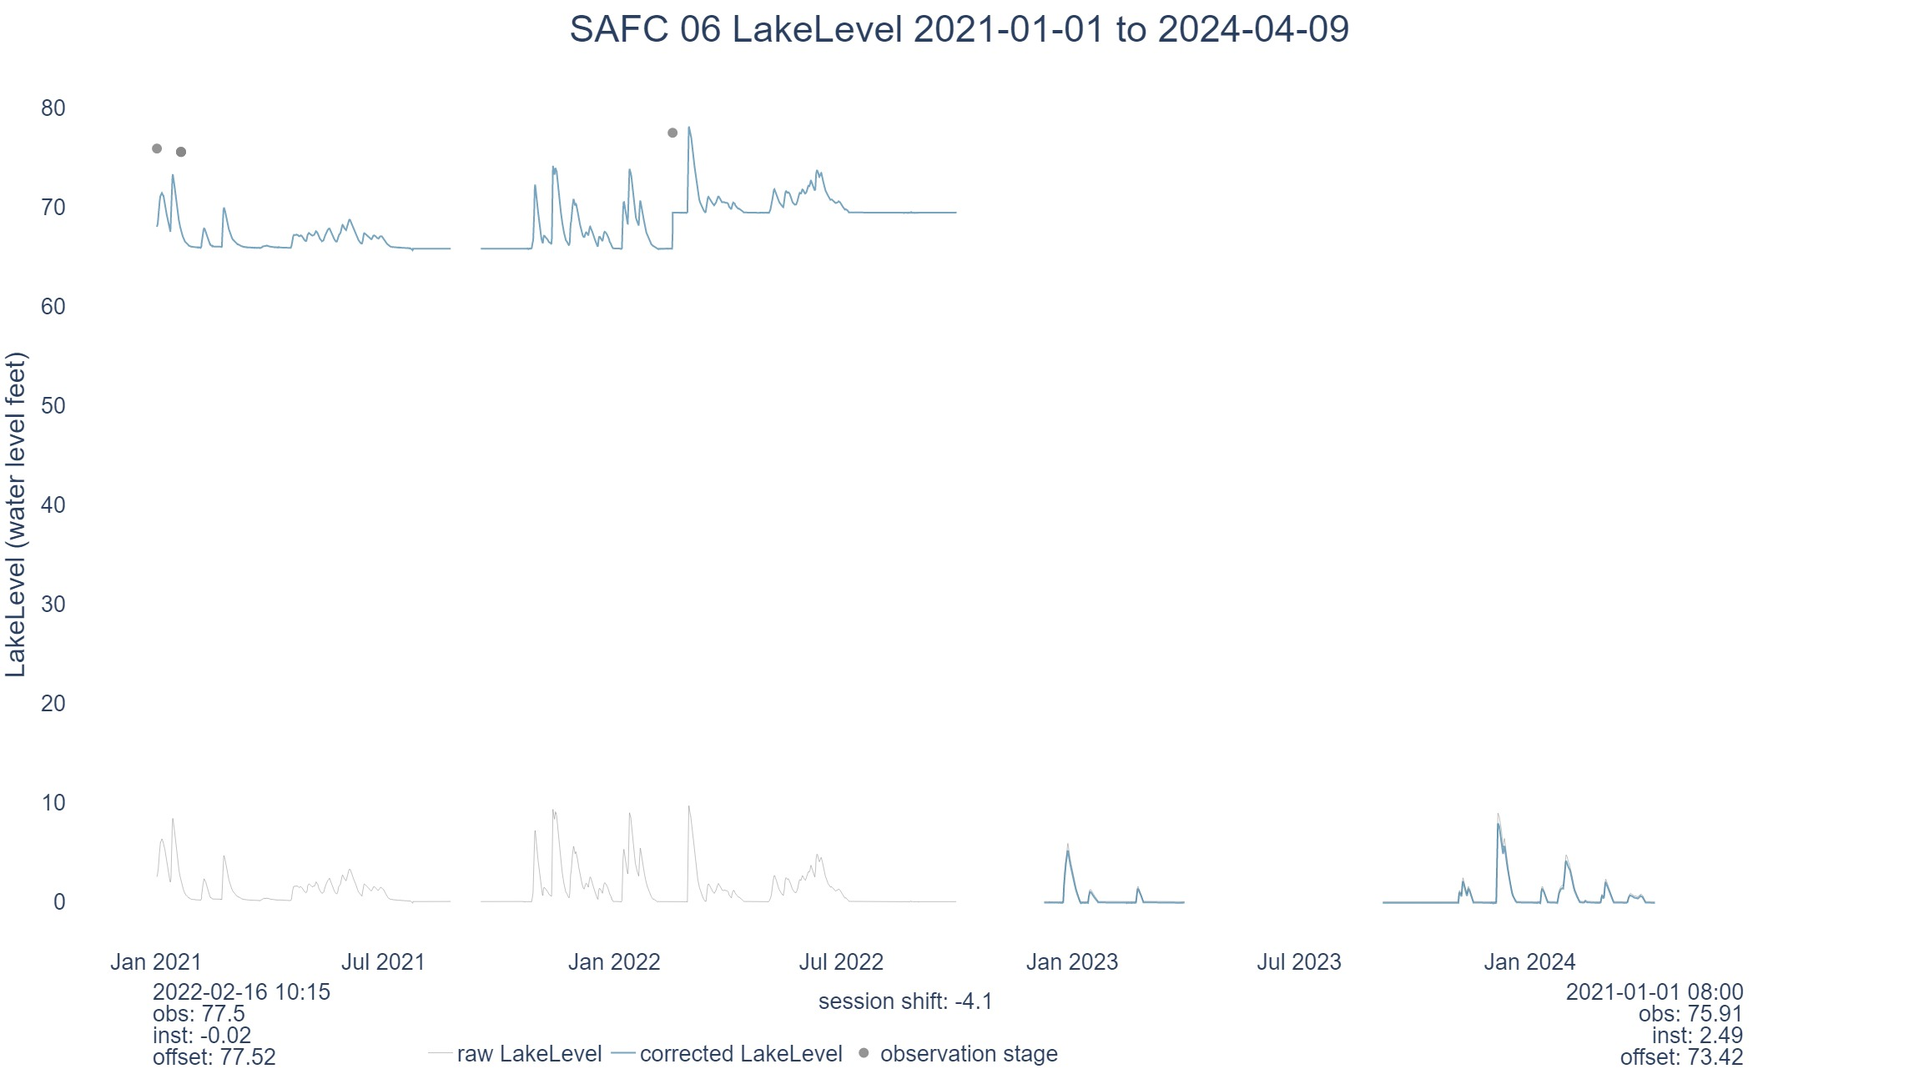
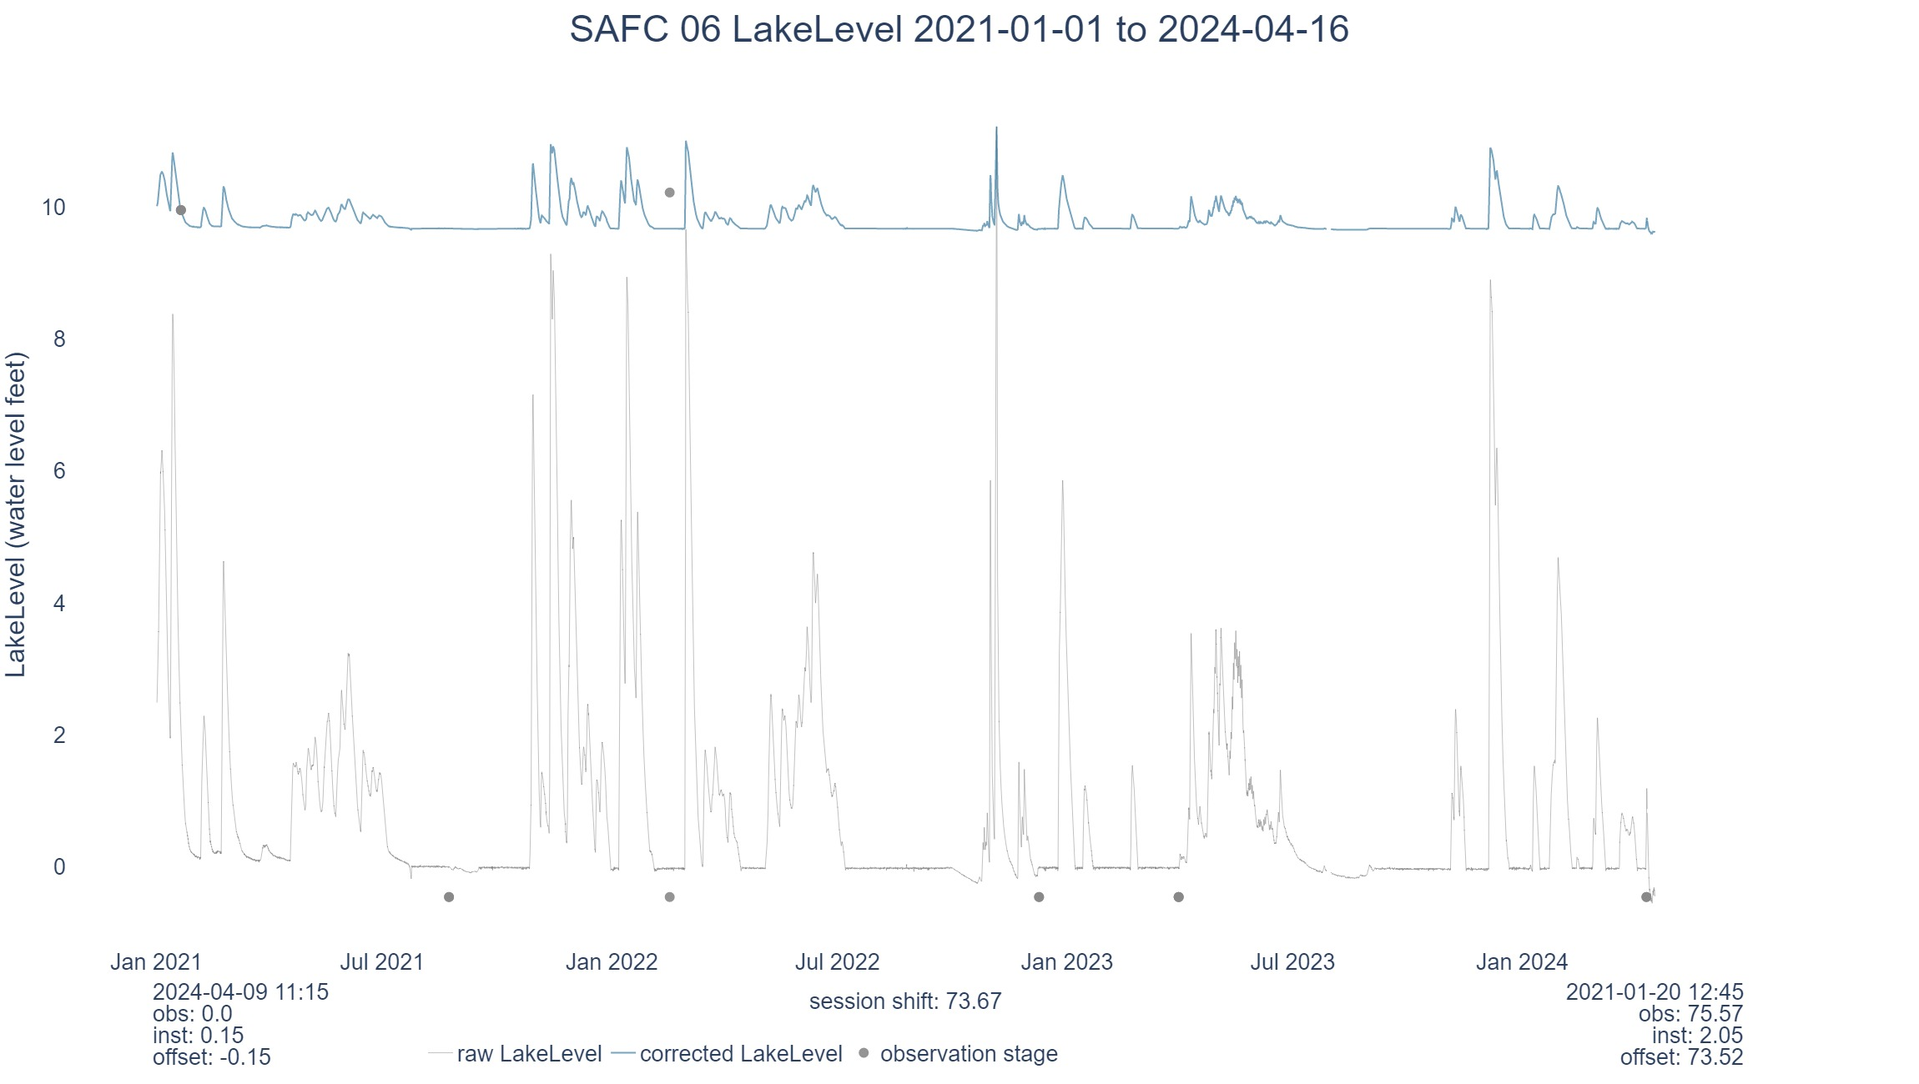
updated date selector

diff --git a/cache_gdata.py b/cache_gdata.py
@@ -17,7 +17,8 @@ from dash import dash_table
 import pandas as pd
 import dash_datetimepicker
 import dash_daq as daq
-
+from datetime import timedelta
+from datetime import datetime
 import numpy as np
 from sqlalchemy import create_engine
 import urllib
@@ -162,6 +163,7 @@ app.layout = html.Div([
     # date time picker not native to dash see https://community.plotly.com/t/dash-timepicker/6541/10
     
     html.Div(dash_datetimepicker.DashDatetimepicker(id='select_range', startDate='', endDate=''),style={'display': 'block'}),
+    
 
     # page_action='none',
     html.Div(
@@ -311,7 +313,23 @@ def run_job(select_data_source):
     if select_data_source == True: # if sql pause correction so uploaded data can be shown
 
         return False
-
+"""
+# global datetime
+@app.callback(
+    Output('select_range', 'startDate'),
+    Output('select_range', 'endDate'),
+    Input('select_range', 'startDate'),
+    Input('select_range', 'endDate'),)
+def update_output(start_date, end_date):
+    # Convert the UTC time to PDT (UTC-7)
+    if start_date != '' and end_date != '':
+        start_date = (pd.to_datetime(start_date).to_pydatetime()) + timedelta(hours=(7))
+        start_date = start_date + timedelta(hours=(7))
+        end_date = pd.to_datetime(end_date).to_pydatetime()
+        end_date = end_date + timedelta(hours=(7))
+        return start_date, end_date
+    else:
+        return '', ''"""
 
 
 # ONSET
@@ -553,6 +571,7 @@ def Select_Ratings(Parameter_value, site_sql_id):
     # Input(component_id='Barometer_Button', component_property='value'),
     Input('select_range', 'startDate'),  # startDate is a dash parameter
     Input('select_range', 'endDate'),
+    Input('site', 'value'),
     Input("site_sql_id", "children"),
     Input(component_id='Parameter', component_property='value'),
     Input('datatable-upload', 'contents'),
@@ -565,18 +584,29 @@ def Select_Ratings(Parameter_value, site_sql_id):
     # Input(component_id='Available_Barometers', component_property='value'),
     # State('Barometer_Button', 'value')
 )
-def update_daterange(startDate, endDate, site_sql_id, parameter, contents, filename, header_rows, footer_rows, timestamp_column, data_column, data_source):
+def update_daterange(startDate, endDate, site, site_sql_id, parameter, contents, filename, header_rows, footer_rows, timestamp_column, data_column, data_source):
     # Call and process incoming data
     # if there is no csv file (northing in contents) query data from sql server
     # contents = holder of imported data, when data is being imported contents = True
     # data_source is if we are quering the server vs importing data, select_data_source False is file import True is SQL query
     # program corrects off the "data" column but other values are pulled
     # if contents is None:  # nothin in datatable upload
-    if data_source == True:  # query sql server
-        # sql import, seperate module becuause its used by comparison upload
-        from import_data import sql_import
-        df = sql_import(parameter, site_sql_id, startDate, endDate)
-        return  df.to_json(orient="split")
+    changed_id = [p['prop_id'] for p in dash.callback_context.triggered][0]
+    if data_source == True:
+        if startDate != '' and endDate != '' and site != '0' and parameter != '0' and 'select_range' in changed_id:  # query sql server
+            print("sql import")
+            # sql import, seperate module becuause its used by comparison upload
+            from import_data import sql_import
+            df = sql_import(parameter, site_sql_id, (pd.to_datetime(startDate).to_pydatetime()) - timedelta(hours=(7)), (pd.to_datetime(endDate).to_pydatetime()) - timedelta(hours=(7))) #convert start/end date from utc to pdt
+            return  df.to_json(orient="split")
+        else:
+            return pd.DataFrame().to_json(orient="split")  # return an empty df, will need to be changed to no update
+        
+
+        #changed_id = [p['prop_id'] for p in dash.callback_context.triggered][0]
+        #if 'upload_data_button' not in changed_id:
+       # return dash.no_update
+        
     if data_source == False:  # file upload
         # try 
         # with open(file_path, 'r') as file:
@@ -611,8 +641,11 @@ def update_daterange(startDate, endDate, site_sql_id, parameter, contents, filen
     Input(component_id='Barometer_Button', component_property='value'),
     Input(component_id='Available_Barometers', component_property='value'),
     Input(component_id='Select_Data_Source', component_property='value'),
-    Input("Parameter", "value"))
-def update_Barometer(rows, Barometer_Button, Available_Barometers, Select_Data_Source, parameter):
+    Input("Parameter", "value"),
+    Input('site', 'value'),  # startDate is a dash parameter
+    Input('select_range', 'startDate'),  # startDate is a dash parameter
+    Input('select_range', 'endDate'),)
+def update_Barometer(rows, Barometer_Button, Available_Barometers, Select_Data_Source, parameter, site, startDate, endDate):
     # barometer_corrected_data
     df = pd.read_json(rows, orient="split")
 
@@ -657,7 +690,7 @@ def update_Barometer(rows, Barometer_Button, Available_Barometers, Select_Data_S
                 return df.to_json(orient="split")
             # If we arnt using a barometer this is just a passthrough
         else:
-          
+            print("baro pass thru ", startDate, " ", endDate)
             return df.to_json(orient="split")
         
 
@@ -678,51 +711,55 @@ def data_level(Select_Data_Source):
 @app.callback(
     Output("Initial_Data_Correction", "data"),
     Output("Initial_Data_Correction", "columns"),
+    Input('site', 'value'),
     Input('Parameter', 'value'),
     Input("barometer_corrected_data", "data"),
     Input(component_id="site_sql_id", component_property="children"),
     Input('select_range', 'startDate'),  # startDate is a dash parameter
     Input('select_range', 'endDate'),)
-def get_observations(parameter_value, barometer_corrected_data, site_sql_id, startDate, endDate):
+def get_observations(site, parameter, barometer_corrected_data, site_sql_id, startDate, endDate):
     ''''Takes data in question and finds cooresponding observations
     returns data, with columns for observations does not trim or cut
     send to correct_data'''
-    data_check = pd.read_json(barometer_corrected_data, orient="split")
+    
     
     def merge_observations(data, observations):
         if not observations.empty:
             # obserervations are queried for a df +/- 12 hour window, search for the first and last observation for a 1 hour window
             # search for obs before start of record
-            first = pd.merge_asof(data.head(1), observations.sort_values(
-                'datetime'), on=['datetime'], tolerance=pd.Timedelta("60m"), direction="backward")
-            last = pd.merge_asof(data.tail(1), observations.sort_values(
-                'datetime'), on=['datetime'], tolerance=pd.Timedelta("60m"), direction="forward")
+            #first = pd.merge_asof(data.head(1), observations.sort_values(
+            #    'datetime'), on=['datetime'], tolerance=pd.Timedelta("15m"), direction="backward")
+            #last = pd.merge_asof(data.tail(1), observations.sort_values(
+            #    'datetime'), on=['datetime'], tolerance=pd.Timedelta("15m"), direction="forward")
           
             data = pd.merge_asof(data, observations.sort_values(
-                'datetime'), on=['datetime'], tolerance=pd.Timedelta("15m"), direction="nearest")
+                'datetime'), on=['datetime'], tolerance=pd.Timedelta("7.5m"), direction="nearest")
             
-            data.loc[data.index == 0] = first.values.tolist()
-            data.loc[data.index == data.index[-1]] = last.values.tolist()
+            #data.loc[data.index == 0] = first.values.tolist()
+            #data.loc[data.index == data.index[-1]] = last.values.tolist()
            
         else:
             data["observation_stage"] = np.nan
         return data
     
-    if data_check.empty:
-        return [{}], []
-    else:
+    changed_id = [p['prop_id'] for p in dash.callback_context.triggered][0]
+    data_check = pd.read_json(barometer_corrected_data, orient="split")
+    if not data_check.empty and startDate != '' and endDate != '' and site != '0' and parameter != '0' and ('site' in changed_id or 'Parameter' in changed_id or 'select_range' in changed_id): # eventually get rid of data check
+   
         try:
             data = pd.read_json(barometer_corrected_data, orient="split")
             from data_cleaning import fill_timeseries
             data = fill_timeseries(data)
             from import_data import get_observations_join
-            observations = get_observations_join(parameter_value, site_sql_id, startDate, endDate)
+            observations = get_observations_join(parameter, site_sql_id, (pd.to_datetime(startDate).to_pydatetime()) - timedelta(hours=(7)), (pd.to_datetime(endDate).to_pydatetime()) - timedelta(hours=(7))) # convert start/end date from utc to pdt
+            print("observations")
+            print(observations)
             #field_observations = get_observations()
             df = merge_observations(data, observations)
-            if parameter_value == "FlowLevel" or parameter_value == "discharge":
+            if parameter == "FlowLevel" or parameter == "discharge":
                 #df = get_parameter_observation(data, field_observations, parameter_value)
                 df.rename(columns={"parameter_observation": "q_observation"}, inplace=True)
-            if parameter_value == "Conductivity" or parameter_value == "conductivity" or parameter_value == "water_temperature":
+            if parameter == "Conductivity" or parameter == "conductivity" or parameter == "water_temperature":
                 #df = get_parameter_observation(data, field_observations, parameter_value)
                 if "observation_stage" in df.columns:
                     df.drop(columns=["observation_stage"], inplace=True)
@@ -730,6 +767,11 @@ def get_observations(parameter_value, barometer_corrected_data, site_sql_id, sta
         except ValueError:
              data = pd.read_json(barometer_corrected_data, orient="split")
              return df.to_dict('records'), [{"name": i, "id": i} for i in df.columns]
+
+    else:
+            return [{}], [] # eventually replace with return dash.no_update
+        
+
 
 @app.callback(
 #@app.long_callback(
@@ -768,10 +810,10 @@ def get_observations(parameter_value, barometer_corrected_data, site_sql_id, sta
     #This example uses running to set the disabled property of the button to True while the callback is running, and False when it completes
    # manager=long_callback_manager,)
     
-def correct_data(header_rows, realtime_update, run_job, interpolate_button, start_date, end_date, checklist, data_level, site, site_sql_id, Parameter_value, comparison_site, comparison_site_sql_id, comparison_parameter, ratings_value,  Initial_Data_Correction_row, Initial_Data_Correction_column, row, Corrected_Data_row, Corrected_Data_column):
+def correct_data(header_rows, realtime_update, run_job, interpolate_button, startDate, endDate, checklist, data_level, site, site_sql_id, Parameter_value, comparison_site, comparison_site_sql_id, comparison_parameter, ratings_value,  Initial_Data_Correction_row, Initial_Data_Correction_column, row, Corrected_Data_row, Corrected_Data_column):
 
     '''Takes dataframe of data and observations from function: get_observations '''
-    df = pd.DataFrame(Initial_Data_Correction_row)
+
     from data_cleaning import style_formatting
     from data_cleaning import data_conversion
     from discharge import discharge_calculation, finalize_discharge_dataframe
@@ -794,21 +836,22 @@ def correct_data(header_rows, realtime_update, run_job, interpolate_button, star
     # this is a bit hacky.  We are correcting off of the data column
     # but we can change the data in the data column on initial import
 
-
+    changed_id = [p['prop_id'] for p in dash.callback_context.triggered][0]
     # if there is no data return a blank dataframe
-    if df.empty:
+    if pd.DataFrame(Initial_Data_Correction_row).empty:
         return dash.no_update
         # if there is data to look at read the datatable
     else:
         # first calculate parameter
-        dff = pd.DataFrame(row)
-        if dff.empty:
+        dff = pd.DataFrame(row) # the data in the table
+        if dff.empty or 'select_range' in changed_id or "Parameter" in changed_id or "site" in changed_id:
             df_raw = pd.DataFrame(Initial_Data_Correction_row)
             
-        if not dff.empty:
+        #if not dff.empty:
+        else:
             df_raw = pd.DataFrame(row)
         
-        changed_id = [p['prop_id'] for p in dash.callback_context.triggered][0]
+    
         
         #if 'run_job' in changed_id or dff.empty or realtime_update is True:
         #if ((realtime_update is True or 'run_job' in changed_id) and not df.empty) or (((realtime_update is True or 'run_job' in changed_id) and not df.empty)):
@@ -853,7 +896,7 @@ def correct_data(header_rows, realtime_update, run_job, interpolate_button, star
                 if "comparison" in df_raw.columns:
                     df_raw.drop(columns=['comparison'], inplace=True)
                 from import_data import usgs_data_import
-                df_comp = usgs_data_import(comparison_site_sql_id,start_date, end_date)
+                df_comp = usgs_data_import(comparison_site_sql_id, (pd.to_datetime(startDate).to_pydatetime()) - timedelta(hours=(7)), (pd.to_datetime(endDate).to_pydatetime()) - timedelta(hours=(7))) # convert start/end date from utc to pdt
                 df_raw = df_raw.merge(df_comp, on="datetime", how = "outer")
         if ("comparison_site" not in checklist) and "comparison" in df_raw.columns:
             df_raw.drop(columns=['comparison'], inplace=True)
@@ -862,7 +905,7 @@ def correct_data(header_rows, realtime_update, run_job, interpolate_button, star
         if 'interpolate_button' in changed_id:
             from interpolation import cache_comparison_interpolation
             print("run interpolation")
-            df_raw = cache_comparison_interpolation(df_raw, site, site_sql_id, Parameter_value, start_date, end_date)
+            df_raw = cache_comparison_interpolation(df_raw, site, site_sql_id, Parameter_value, (pd.to_datetime(startDate).to_pydatetime()) - timedelta(hours=(7)), (pd.to_datetime(endDate).to_pydatetime()) - timedelta(hours=(7))) # convert start/end date from utc to pdt)
 
             #if "header_rows" in changed_id:
             #if header_rows > 0:

diff --git a/graph_2.py b/graph_2.py
@@ -206,23 +206,19 @@ def parameter_graph(df, site_code, site_name, parameter, comparison_site, compar
     fig.update_yaxes(showgrid=False, secondary_y=False)
     fig.update_yaxes(showgrid=False, secondary_y=True)
         
+    if f"data" in df.columns and data_axis != "none":
+        fig.add_trace(go.Scatter(
+                    x=df.loc[:, "datetime"],
+                    y=df.loc[:, f"data"],
+                    line=dict(color=color_map.get(f"data", 'black'), width = 1),
+                    name=f"raw {base_parameter.replace('_', ' ')}",showlegend=True,),row=row_count, col=1, secondary_y=data_axis),
             
-    fig.add_trace(go.Scatter(
-                x=df.loc[:, "datetime"],
-                y=df.loc[:, f"data"],
-                line=dict(color=color_map.get(f"data", 'black'), width = 1),
-                name=f"raw {base_parameter.replace('_', ' ')}",showlegend=True,),row=row_count, col=1, secondary_y=False),
-            
-    if f"corrected_data" in df.columns:
-            if df.corrected_data.mean() > df.data.mean()+10: # if there is a large difference, plot on secondary axis (discharge wont have a large difference)
-                secondary = True
-            else:
-                 secondary = False
-            fig.add_trace(go.Scatter(
+    if f"corrected_data" in df.columns and corrected_data_axis != 'none':        
+        fig.add_trace(go.Scatter(
                     x=df.loc[:, "datetime"],
                     y=df.loc[:, f"corrected_data"],
                     line=dict(color=color_map.get(f"corrected_data", 'black'), width = 2),
-                    name=f"corrected {base_parameter.replace('_', ' ')}",showlegend=True,),row=row_count, col=1, secondary_y=secondary),
+                    name=f"corrected {base_parameter.replace('_', ' ')}",showlegend=True,),row=row_count, col=1, secondary_y=corrected_data_axis),
            
     # special graph
     if f"{derived_parameter}" in df.columns and derived_data_axis != "none":
@@ -290,7 +286,7 @@ def parameter_graph(df, site_code, site_name, parameter, comparison_site, compar
                 fig.add_annotation(text=f"session shift: {round((obs_df[f'offset'].iloc[-1] - obs_df[f'offset'].iloc[0]),2)}",
                             xref="x domain", yref="y domain",
                             x=.5, y=legend_y+.02, showarrow=False, row=row_count, col=1, secondary_y=False,)
-        
+    # display field observation points    
     if "field_observations" in df.columns or "observations" in df.columns or "observation" in df.columns or "observation_stage" in df.columns and observation_axis != "none":
             if "field_observations" in df.columns:
                 obs = "field_observations"
@@ -306,7 +302,8 @@ def parameter_graph(df, site_code, site_name, parameter, comparison_site, compar
             mode='markers',
             marker=dict(
                 color=color_map.get(f"field_observation", 'black'), size=12, opacity=.9),
-            text='', name=f"{obs.replace('_', ' ')}", showlegend=True), row=row_count, col=1, secondary_y=False,)
+            text='', name=f"{obs.replace('_', ' ')}", showlegend=True), row=row_count, col=1, secondary_y=corrected_data_axis)
+            # corrected_data_axis
             annotations(obs)
     row_count = row_count+1
     

diff --git a/import_data.py b/import_data.py
@@ -37,10 +37,15 @@ sql_engine = create_engine("mssql+pyodbc:///?odbc_connect=%s" % sql_alchemy_conn
 
 def sql_import(parameter, site_sql_id, start_date, end_date):
     if start_date != '' and end_date != '':
+            print("initial start date", start_date)
+            print("initial end date", end_date)
+            
             start_date = pd.to_datetime(start_date).to_pydatetime()
             start_date = (start_date + timedelta(hours=(7))).strftime("%m/%d/%Y %H:%M")
             end_date = pd.to_datetime(end_date).to_pydatetime()
             end_date = (end_date + timedelta(hours=(7))).strftime("%m/%d/%Y %H:%M")
+            print("offset start date", start_date)
+            print("offset end date", end_date)
             if parameter == "FlowLevel" or parameter == "discharge":
               
                 # QUERY Discharge
@@ -66,7 +71,9 @@ def sql_import(parameter, site_sql_id, start_date, end_date):
             # THIS ISNT THE COPY OF A Slice, datetime converted in sql statement
             #df["datetime"] = df["datetime"] - timedelta(hours=7)
                 
-    
+                print("df head")
+                print(df.head(1))
+                print(df.tail(1))
     else:
             df = pd.DataFrame()
             
@@ -106,8 +113,8 @@ def get_observations_join(parameter, site_sql_id, startDate, endDate):
         #endDate = pd.to_datetime(endDate)
 
         # convert start/end date to utc time
-        #startDate = startDate + timedelta(hours=(7))
-        #endDate = endDate + timedelta(hours=(7))
+        startDate = startDate + timedelta(hours=(7))
+        endDate = endDate + timedelta(hours=(7))
 
         # add data window
         #startDate = startDate - timedelta(hours=(added_time_window))

diff --git a/interpolation.py b/interpolation.py
@@ -356,6 +356,8 @@ def cache_comparison_interpolation(df, site, site_sql_id, parameter, start_date,
 
         df["difference"] = df["difference"].round(2)
         df["c_difference"] = df["c_difference"].round(2)
+
+       
         #set estimate to numeric
         df['estimate'] = pd.to_numeric(df['estimate'], errors='coerce')
         # set estimate to true
@@ -447,7 +449,9 @@ def cache_comparison_interpolation(df, site, site_sql_id, parameter, start_date,
         # df["corrected_data"] = df["corrected_data"].fillna(method = "bfill")
         #df['corrected_data'] = df.groupby(['c_relative_water_year'])['corrected_data'].apply(lambda x: x.ffill().bfill())
         
-        df.to_csv(r"C:/Users/ihiggins/OneDrive - King County/Documents/compare.csv")
+        #df.to_csv(r"C:/Users/ihiggins/OneDrive - King County/Documents/compare.csv")
+        
+        df.to_csv("W:/STS/hydro/GAUGE/Temp/Ian's Temp/compare.csv")
         df = df.sort_values([f"datetime"], ascending=True)
         # drop year column
         df = df.drop(columns=['year'])
@@ -477,7 +481,8 @@ def cache_comparison_interpolation(df, site, site_sql_id, parameter, start_date,
         df = df.drop(columns=["c_rise_fall"])
        
         df = df.drop(columns=['test'])
-
+       
+ 
         #df = df.drop(columns=[f'quantile'])
         #df = df.drop(columns=[f'c_quantile'])
 

diff --git a/workup_notes.py b/workup_notes.py
@@ -221,4 +221,4 @@ project = "Taylor Creek"
 site_list = ["TAY_6", "TAY_1", "TAY_7E", "TAY_5", "TAY_3", "TAY_8"]
 start_date = "01/01/2023 0:00" #"%m/%d/%Y %H:%M"
 end_date = "03/01/2024 0:00" #"%m/%d/%Y %H:%M"
-excel_export(project, site_list, start_date, end_date)
+#excel_export(project, site_list, start_date, end_date)
